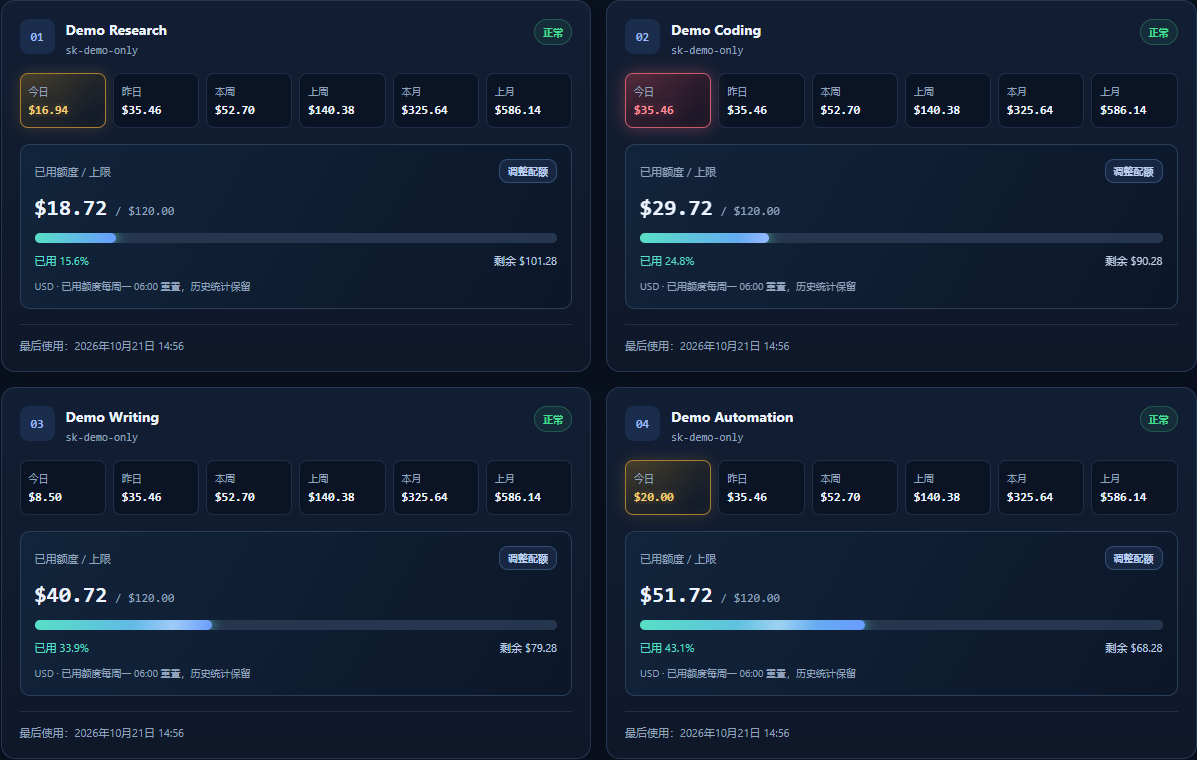
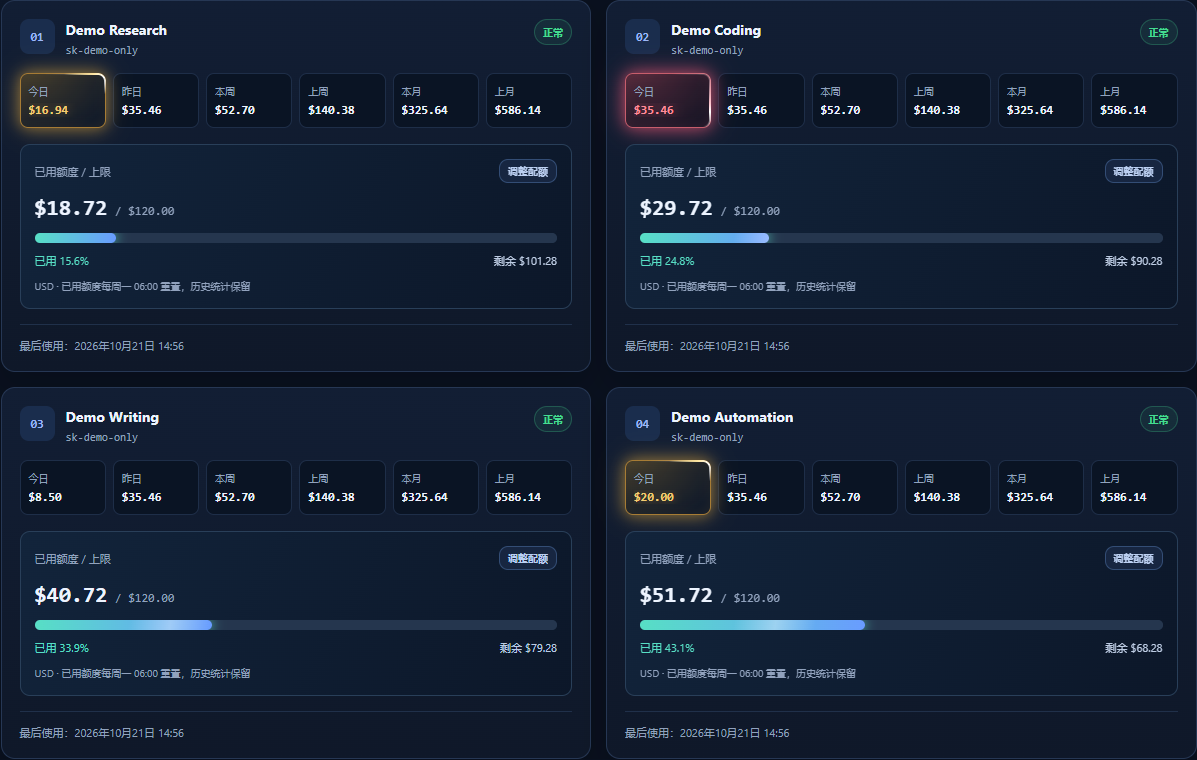
docs: animate today tile glow preview with orbiting light

diff --git a/docs/previews/today-tile-glow.css b/docs/previews/today-tile-glow.css
@@ -1,32 +1,68 @@
 /* Preview only: not linked by the production page. */
+@property --usage-tile-angle {
+  syntax:'<angle>';
+  initial-value:0deg;
+  inherits:false;
+}
+
 .period:has(> strong.usage-today-warm) {
+  --usage-tile-edge:#ffe6a1;
+  --usage-tile-aura:#ffbe4270;
+  --usage-tile-speed:4.8s;
   border-color:#a77c35;
   background:radial-gradient(ellipse at 12% 0%,#e8ac3338,transparent 85%),#111a29;
   box-shadow:inset 0 0 0.75rem #e8ac3314,0 0 0.875rem #e8ac3333;
 }
 
 .period:has(> strong.usage-today-hot) {
-  position:relative;
+  --usage-tile-edge:#ffc5cf;
+  --usage-tile-aura:#ff5c7a99;
+  --usage-tile-speed:3.4s;
   border-color:#c75e6c;
   background:radial-gradient(ellipse at 12% 0%,#ff65783b,transparent 85%),#1a1626;
   box-shadow:inset 0 0 0.75rem #ff65781a;
 }
 
-.period:has(> strong.usage-today-hot)::after {
+.period:has(> strong:is(.usage-today-warm,.usage-today-hot)) {
+  position:relative;
+  isolation:isolate;
+}
+
+.period:has(> strong:is(.usage-today-warm,.usage-today-hot))::before {
   content:'';
   position:absolute;
   inset:-1px;
   border-radius:inherit;
-  box-shadow:0 0 1rem #ff65785c;
+  padding:2px;
+  background:conic-gradient(from var(--usage-tile-angle),transparent 0% 58%,#ffffff18 70%,var(--usage-tile-edge) 83%,#fff 86%,transparent 92% 100%);
+  -webkit-mask:linear-gradient(#fff 0 0) content-box,linear-gradient(#fff 0 0);
+  -webkit-mask-composite:xor;
+  mask:linear-gradient(#fff 0 0) content-box,linear-gradient(#fff 0 0);
+  mask-composite:exclude;
   pointer-events:none;
-  animation:usage-today-tile-halo 3.8s ease-in-out infinite;
+  animation:usage-today-tile-orbit var(--usage-tile-speed) linear infinite;
+}
+
+.period:has(> strong:is(.usage-today-warm,.usage-today-hot))::after {
+  content:'';
+  position:absolute;
+  inset:-1px;
+  border-radius:inherit;
+  box-shadow:0 0 0.875rem var(--usage-tile-aura),0 0 1.5rem var(--usage-tile-aura);
+  pointer-events:none;
+  animation:usage-today-tile-halo var(--usage-tile-speed) ease-in-out infinite;
+}
+
+@keyframes usage-today-tile-orbit {
+  to { --usage-tile-angle:360deg; }
 }
 
 @keyframes usage-today-tile-halo {
-  0%,100% { opacity:0.55; }
-  50% { opacity:1; }
+  0%,100% { opacity:0.3; }
+  50% { opacity:0.85; }
 }
 
 @media (prefers-reduced-motion:reduce) {
-  .period:has(> strong.usage-today-hot)::after { animation:none; opacity:0.75; }
+  .period:has(> strong:is(.usage-today-warm,.usage-today-hot))::before { animation:none; background:var(--usage-tile-edge); opacity:0.65; }
+  .period:has(> strong:is(.usage-today-warm,.usage-today-hot))::after { animation:none; opacity:0.5; }
 }

diff --git a/docs/PROJECT_HANDOFF.md b/docs/PROJECT_HANDOFF.md
@@ -6,7 +6,7 @@
 
 | 项目 | 状态 |
 | --- | --- |
-| 今日小格光晕预览（未集成） | 2026-10-21 用户反馈数字变色不够醒目，要求先做一版查看。在独立预览样式 docs/previews/today-tile-glow.css 中为「今日」小格增加金/红边框、浅底光和外光，红色慢呼吸，减少动画时静态；不是整张用户大卡片或管理员账号卡片。生产 public/ 文件未修改，NAS 未部署本预览。假数据预览 http://127.0.0.1:3115/，本机隐藏服务脚本/PID 在忽略目录 .playwright-mcp/today-tile-preview.cjs 与 today-tile-preview.pid。八种 320–3840px 视口对照通过，小格/大卡片位置及页面高度、其他字段和详情开关不变，无溢出或脚本错误；全量 116 项测试仍通过，截图 docs/screenshots/2026-10-21-today-tile-glow-{desktop,mobile}.png。域名 SSH 只读核对 NAS 仍为 2568958 / healthy。下一步用户确认光效强度后再集成、测试，另行授权才部署。 |
+| 今日小格光晕预览（未集成） | 2026-10-21 用户要求先预览，并继续反馈仅换颜色视觉冲击不足，当前已迭代为「流光绕边 + 呼吸外光」：金色 4.8 秒/圈，红色 3.4 秒/圈且光更强，蒙版限制亮光只沿「今日」小格边缘移动，减少动画时静态。独立样式 docs/previews/today-tile-glow.css，不影响整张用户大卡片或管理员卡片。生产 public/ 文件未修改，NAS 未部署。假数据预览 http://127.0.0.1:3115/?preview=motion-2，本机隐藏服务脚本/PID 在忽略目录 .playwright-mcp/today-tile-preview.cjs 与 today-tile-preview.pid。八种 320–3840px 对照通过，小格/大卡片位置及页面高度、其他字段和详情开关不变，无溢出/脚本错误；浏览器采样确认两种颜色绕边角度和渐变随时间变化、外光透明度起伏、减少动画关闭全部新增动画。116 项测试复测通过；并发浏览器负载时已有节流测试一次 28ms 间隔断言失败，单文件及全量复测均通过，未修改后台代码。截图 docs/screenshots/2026-10-21-today-tile-glow-{desktop,mobile}.png 已更新。域名 SSH 只读核对 NAS 仍为 2568958 / healthy。下一步用户确认后再集成，另行授权才部署。 |
 | 今日金额热度（已部署） | 2026-10-21 以用户最终红框截图为准，仅为各管理员下用户/API Key 卡片的「今日」金额增加分级效果：原始金额 > $10 琥珀黄静态光晕，> $20 柔和红色 3.8 秒呼吸；恰好 $10 原色、恰好 $20 黄色，减少动画时保留静态红光。昨日等其余五周期、顶部汇总、已用额度/上限及超级管理员账号卡片不变，不新增上游请求或预算逻辑。资源版本 20261021-1。116 项测试、逐文件语法/差异检查通过；320–3840px 八种视口对照通过，卡片位置/页面高度、其他金额文字/颜色、详情开关保持不变，无溢出/截断/脚本错误，减少动画和刷新清除旧高亮通过。截图 docs/screenshots/2026-10-21-today-heat-{desktop,mobile}.png 为纯假数据。用户随后明确授权部署，已于 15:39:49 随 1.4.1 / 2568958 上线 NAS，healthy；完整验收及备份见下方。 |
 | 批量读取接口核验 | 2026-10-19 用户希望改为读取上游「API 密钥」页的数据以减少访问。本轮只读核验 `/api/v1/keys?page=1&page_size=100` 返回 18 个 Key、1 页，每项包含 quota/quota_used/status/last_used_at，无需逐 Key GET 获取这些字段。读取当前上游公开前端代码确认该页另调用 `/api/v1/usage/dashboard/api-keys-usage`；按其原有 POST 查询方式一次传入 18 个 ID，返回 HTTP 200、18 项 stats，字段为 api_key_id/today_actual_cost/total_actual_cost。这是统计读取，不是配额写入；仅输出字段名和数量，不输出真实 Key/令牌。该批量统计不含六周期每日序列，也不能直接替代体验/奖励逐笔记账。建议全量列表按关联筛选、短期共享缓存与写后失效、保留精确周期统计、明细增量与核对及 429 退避，不能仅把 5 次 Key GET 改成 1 次而保留 69 页重扫。方案已获确认并随 1.4.0 发布，实际结果见本轮部署记录；接口核验时 NAS 仍为 5dd98e7 / healthy，Git 起始 main 与 origin/main 同为 7e90fca、干净。 |
 | 配额保存与持续报错排查 | 2026-10-19 09:35–09:36（北京时间）按用户要求只读检查 NAS。实际应用仍为 1.3.4 / 5dd98e7，running / healthy、重启 0、未 OOM，近 24 小时容器标准日志无输出；错误保存在各账号 cache.syncEvents。截图对应的五 Key 体验账号最后成功同步为 10-18 20:12:32，当前失败为上游 HTTP 429，主要发生在 detail-read，另有 usage-read；保留事件中有 125 条 429，最早保留到 10-09，并非本次点击才开始。09:27 后多次 action 来源失败，不能从该来源字段单独判定每次操作类型或是否仍有请求排队。只读读取目标上游 Key 确认实际配额与 NAS 旧缓存不一致，支持写入已生效而页面仍旧值；未改真实额度。该账号从 09-01 起重扫明细，缓存 6,578 条对应至少 69 页，目标 Key 的上游第一页返回 4,012 条 / 41 页。源码确认配额写入后等待整批同步、分页无 429 退避，按钮无等待/重复提交保护；这是持续限流和保存反馈延迟的重点修复方向，上游具体限流阈值未核实。登录、目标 Key GET 和明细第一页 GET 本轮均 200；未跑整批同步、重启、部署或更改生产配置。 |
@@ -29,7 +29,7 @@
 | 源码 | 私有仓库 `allin75/sub2api-key-manager`，以 `origin/main` 为同步源。两台电脑应各自克隆或拉取，不复制工作目录。 |
 | 源码同步 | 应用 1.4.1 发布提交 25689585e99253a4f1e3961006ef0dde7e413cb1 已推送 GitHub main 并实际部署 NAS。后续发布记录为纯文档提交，不替代实际运行标记，也无需重复部署。 |
 | 最近功能版本 | NAS 应用 1.4.1，发布提交 2568958，2026-10-21 15:39:49（北京时间）部署。仅增加用户/API Key 卡片「今日」金额 > $10 黄色、> $20 红色慢呼吸光晕；其余统计、配额、后台同步和预算规则不变，无需新增配置或数据迁移。 |
-| 当前开发 | 1.4.1 已发布。新增独立「今日小格光晕」预览，尚未集成到生产 public/ 文件，等待用户确认；此次只同步预览 CSS、说明和假数据截图，不代表 NAS 变化。116 项测试及八种视口预览对照通过，减少动画/详情开关/卡片位置检查通过。 |
+| 当前开发 | 1.4.1 已发布。独立「今日小格光晕」预览已按反馈增加流光绕边和更明显的呼吸外光，尚未集成生产 public/ 文件，等待用户确认；仅同步预览 CSS、说明和假数据截图，不代表 NAS 变化。116 项测试复测及八种视口对照通过，运动相位/减少动画/详情开关/卡片位置检查通过。 |
 | 价格公告资料 | 2026-09-30 核对 Sub2API 关联上游 `Wei-Shaw/model-price-repo` 文件提交 `db7042574ec44c2f92c8668bc361aacdbef0726e`，保留 257 个模型标识的完整参考价快照和全量 HTML，资料位于 `docs/announcements/2026-09-30-model-prices/`。用户随后要求仅保留 GPT 6（含 6.1）和 5.6 系列，已将 `announcement.txt` 精简为 9 个模型、输入/缓存读取/输出价格和明显推荐符号；只推荐参考价格选择，不作效果排名。已核对价格库没有 GPT-6.6，不编造价格。现有定向公告为纯文字、支持换行、正文最多 4000 字符，HTML/Markdown 图片不会渲染；用户选择文字版，不新增图片功能。旧 PNG/HTML 仅保留为历史草稿，不是本次精简稿。未核对生产 Sub2API 倍率或可用模型，未修改应用或部署，未发布生产公告。下一步：用户确认本站可用模型及实际计费规则后，复制精简文字到对应管理员的公告弹窗发送。 |
 | NAS | 2026-10-21 15:39:49（北京时间）部署 1.4.1，.release-commit 为 25689585e99253a4f1e3961006ef0dde7e413cb1；镜像 sha256:32f3e66c786f8dad0d8151fe3a69128009371fc97283e3bb3de35e5e5573e431，healthy、重启次数 0。 |
 | 回退资料 | 本次备份 /home/Sun/sub2api-key-manager-backups/20261021-153929，保留原 .env、源码/Compose、source-config.tar.gz、data.tar.gz、数据副本及旧镜像标识；候选禁网络离线验证旧数据可读取。回退镜像 sub2api-key-manager:rollback-78af0ca-20261021。候选镜像、带失败回退的部署脚本、验证摘要与 deploy.ok 在 /home/Sun/sub2api-key-manager-releases/2568958；历史备份和镜像未清理。 |
@@ -40,6 +40,8 @@
 这份文档是时间点记录。2026-10-21 用户已明确授权并完成 1.4.1 发布，NAS 实际运行 2568958 且健康；随后纯文档提交无需重复部署，不能仅凭 GitHub 最新文档提交推断运行提交。
 
 ## 已完成记录
+
+- 2026-10-21：按用户继续要求动画与更强视觉冲击，将本地预览迭代为金/红流光绕边及呼吸外光，红色更快、更明显，保持无快速闪烁/无卡片缩放或位移。八种视口对照、动画随时间变化/伪元素不阻挡交互/减少动画检查通过；后台已有节流测试在并行浏览器负载下偶发失败，单文件与全量 116 项复测通过，未修改后台代码。更新预览说明及假数据截图并同步；生产源码和 NAS 均未改，NAS 只读核对仍为 2568958 / healthy，等待用户确认。
 
 - 2026-10-21：按用户「卡片也需要黄光和红光，先做一版」制作独立预览。仅增强「今日」小格边框、底光和外光，保留数字分级与减少动画；生产 public/ 文件不变、不部署 NAS。隐藏本机假数据服务监听 127.0.0.1:3115，无真实凭据/上游请求，八种视口几何/其他字段/详情对照通过，116 项测试通过，桌面与手机截图已目视核验。只读核对 NAS 仍为 2568958 / healthy；同步预览材料与记录，等待用户确认。
 

diff --git a/docs/previews/today-tile-glow.md b/docs/previews/today-tile-glow.md
@@ -3,8 +3,15 @@
 2026-10-21，用户反馈仅数字变色不够醒目，要求先做一版查看。
 
 - 保留当前 > $10 黄色、> $20 红色的判断，仅增强「今日」小格，不为整张用户/API Key 大卡片或管理员卡片加光。
-- 黄色增加暖金边框、角落浅金底光与静态外光；红色增加珊瑚红边框、浅红底光与缓慢外光呼吸。
+- 第二版按用户「视觉冲击力不够」反馈增加流光绕边：黄色一圈 4.8 秒、红色一圈 3.4 秒，沿圆角边框移动亮光；两者外光随周期缓慢起伏，红色更强，不快速闪烁。
+- 保留暖金/珊瑚红边框和角落底光。流光用蒙版限定在边框，不盖住文字；伪元素不接收鼠标事件。
 - 不改边框宽度、间距和卡片尺寸；外光不接收鼠标事件，减少动画时保留静态光。
 - 预览样式为同目录 `today-tile-glow.css`，未链接到 `public/index.html`，未修改生产脚本/样式或部署 NAS。
 - 使用本机独立服务将预览 CSS 追加到现有页面样式，全部会话/账号/用量均为假数据，不连接真实上游。
 - 下一步：用户确认视觉效果后，再集成到正式样式、测试并按另行授权部署。
+
+## 第二版验证
+
+- 八种 320–3840px 视口的新旧几何、其他字段和详情开关对照通过，无横向溢出或脚本错误。
+- 浏览器间隔采样确认两种颜色的边缘渐变角度和外光透明度确实改变；减少动画时两个伪元素动画均停止，保留静态光。
+- 生产 `public/` 文件不变。已有后台节流测试在与浏览器同时运行时一次 28ms 间隔断言失败，单文件及全量 116 项复测均通过；未改动后台逻辑。
